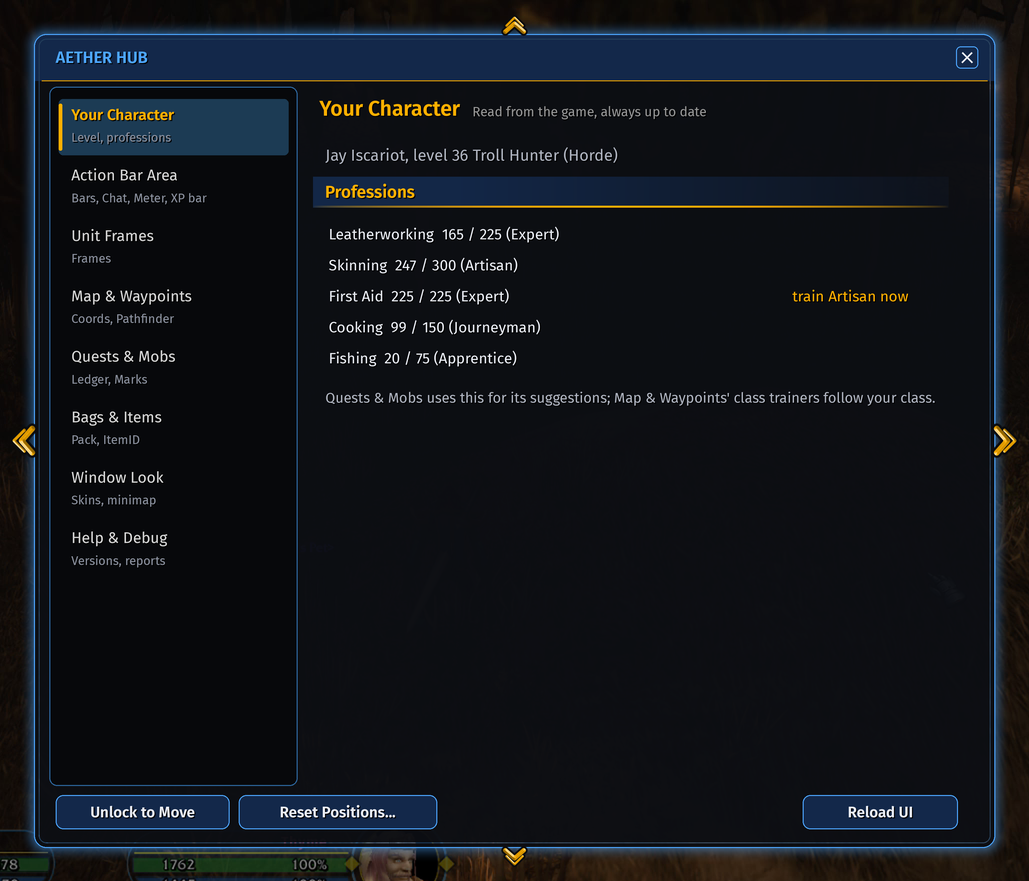
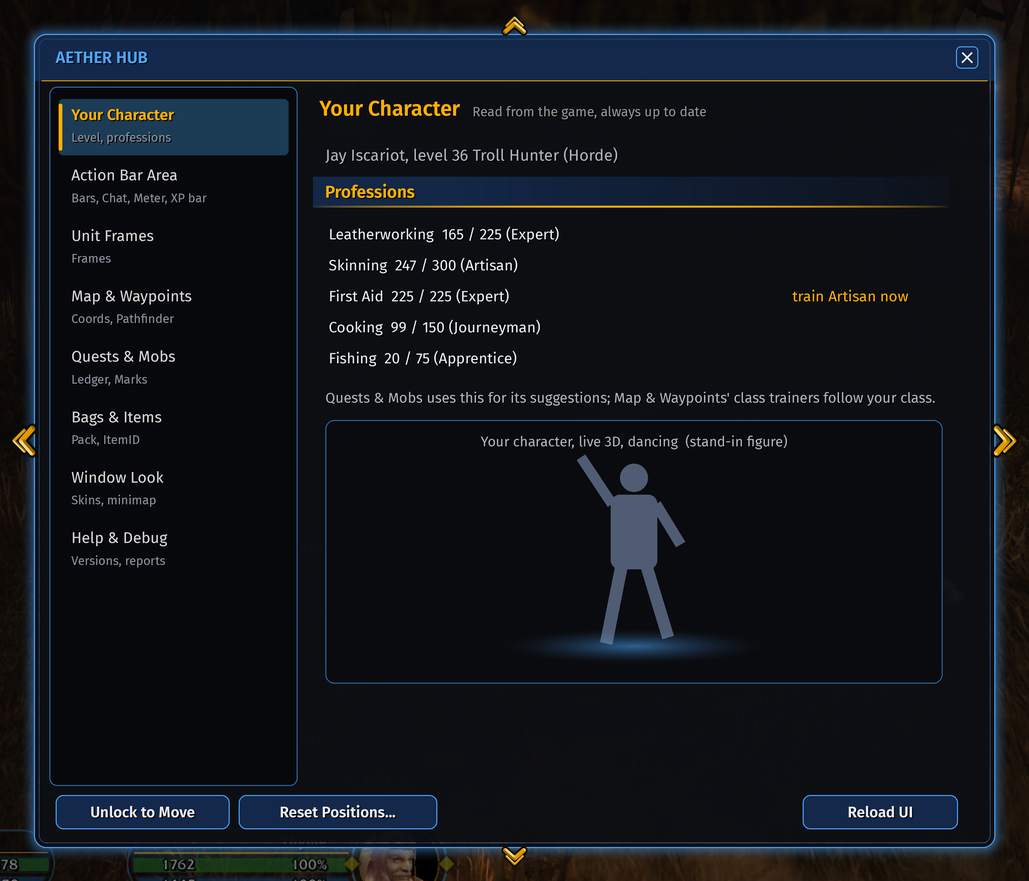
Release C: dancing character stage on Your Character (mock)
Claude-Session: https://claude.ai/code/session_01VXfbTCpmXL8SwFrCZro4r3

Changed region(s): [[0.4665, 0.4904, 0.7775, 0.7662]]

diff --git a/mock/hub_layout.py b/mock/hub_layout.py
@@ -355,3 +355,31 @@ def _box(self, text_lines, h=120):
         T(self.c, PX + 12, self.y + 12 + i * 18, l, 14, (200, 205, 215), 'Regular', 'lm')
     self.y += h + 8
 Page.rowbuttons = _rowbuttons; Page.lines = _lines; Page.box = _box
+def _stage(self, h, caption):
+    import numpy as np
+    from PIL import Image
+    if not self.room(h + 8): return
+    x0, y0, x1, y1 = X(PX + 4), Y(self.y), X(PR - 4), Y(self.y + h)
+    rect(self.c, PX + 4, self.y, PR - 4, self.y + h, fill=(10, 11, 14), outline=(46, 104, 160), r=6)
+    # soft blue floor glow where the model stands
+    W, H = int((x1 - x0) * SS), int((y1 - y0) * SS)
+    yy, xx = np.mgrid[0:H, 0:W]
+    cx, cy = W / 2, H * 0.86
+    d = np.hypot((xx - cx) / (W * 0.22), (yy - cy) / (H * 0.07))
+    a = np.clip(1 - d, 0, 1) ** 1.6 * 0.55
+    g = np.zeros((H, W, 4), np.uint8); g[..., :3] = BLUE; g[..., 3] = (a * 255).astype(np.uint8)
+    self.c.over(Image.fromarray(g), (x0, y0))
+    # stand-in figure (the real one is your live 3D character)
+    mx = (PX + PR) / 2; fy = self.y + h * 0.86
+    L_, d_ = self.c.layer()
+    col = (120, 140, 175, 160)
+    d_.ellipse(self.c.P(X(mx - 9), Y(fy - 118), X(mx + 9), Y(fy - 100)), fill=col)
+    d_.rounded_rectangle(self.c.P(X(mx - 15), Y(fy - 98), X(mx + 15), Y(fy - 50)), int(6 * U * SS), fill=col)
+    d_.line(self.c.P(X(mx - 14), Y(fy - 92), X(mx - 34), Y(fy - 122)), fill=col, width=int(7 * U * SS))
+    d_.line(self.c.P(X(mx + 14), Y(fy - 92), X(mx + 30), Y(fy - 66)), fill=col, width=int(7 * U * SS))
+    d_.line(self.c.P(X(mx - 8), Y(fy - 52), X(mx - 18), Y(fy - 2)), fill=col, width=int(8 * U * SS))
+    d_.line(self.c.P(X(mx + 8), Y(fy - 52), X(mx + 22), Y(fy - 6)), fill=col, width=int(8 * U * SS))
+    self.c.over(L_)
+    T(self.c, mx, self.y + 14, caption, 14, (175, 180, 192), 'Regular', 'mm')
+    self.y += h + 8
+Page.stage = _stage

diff --git a/mock/hub_last.py b/mock/hub_last.py
@@ -9,6 +9,7 @@ def me(p):
              ('First Aid  225 / 225 (Expert)', 'train Artisan now'), ('Cooking  99 / 150 (Journeyman)', ''),
              ('Fishing  20 / 75 (Apprentice)', '')])
     p.note('Quests & Mobs uses this for its suggestions; Map & Waypoints\' class trainers follow your class.')
+    p.stage(170, 'Your character, live 3D, dancing  (stand-in figure)')
 VERS = [('AetherHub', '1.14.8'), ('AetherBars', '1.14.3'), ('AetherChat', '1.0.8'), ('AetherCoords', '1.3.15'),
         ('AetherFrames', '1.14.7'), ('AetherItemID', '1.1.4'), ('AetherLedger', '1.8.7'), ('AetherMarks', '1.6.13'),
         ('AetherMeter', '1.13.9'), ('AetherPack', '1.6.4'), ('AetherPathfinder', '1.9.6'), ('AetherSkins', '1.5.7')]

diff --git a/HANDOFF.md b/HANDOFF.md
@@ -1390,3 +1390,12 @@ trim), xpbar_render.py (XP bar).
   Check Memory, Show Window Dump, NEW ItemID hover-explain switch
   (/itemid debug), tree note, Output box, Copy Full Report, Clear.
   Preview Meter left Debug (on Action Bar Area). ALL 9 PAGES MOCKED.
+- 15:46 USER IDEA: their live 3D character DANCING in the empty space at
+  the bottom of Your Character. Mock (hub_last.py stage, out_hub_me):
+  black stage with blue edge + soft blue floor glow, model centered.
+  Plan: CreateFrame("PlayerModel"), SetUnit("player"), SetAnimation(69)
+  (EmoteDance per the animation ID list; fall back to idle 0 if not
+  HasAnimation(69)), refresh on UNIT_MODEL_CHANGED / PLAYER_EQUIPMENT_
+  CHANGED / OnShow; paused (hidden) when the Hub closes. Asked: dance
+  nonstop vs click for other emotes; drag to turn; switch to turn it off.
+  Check in Forever: model animations under the 12.1 rules.
